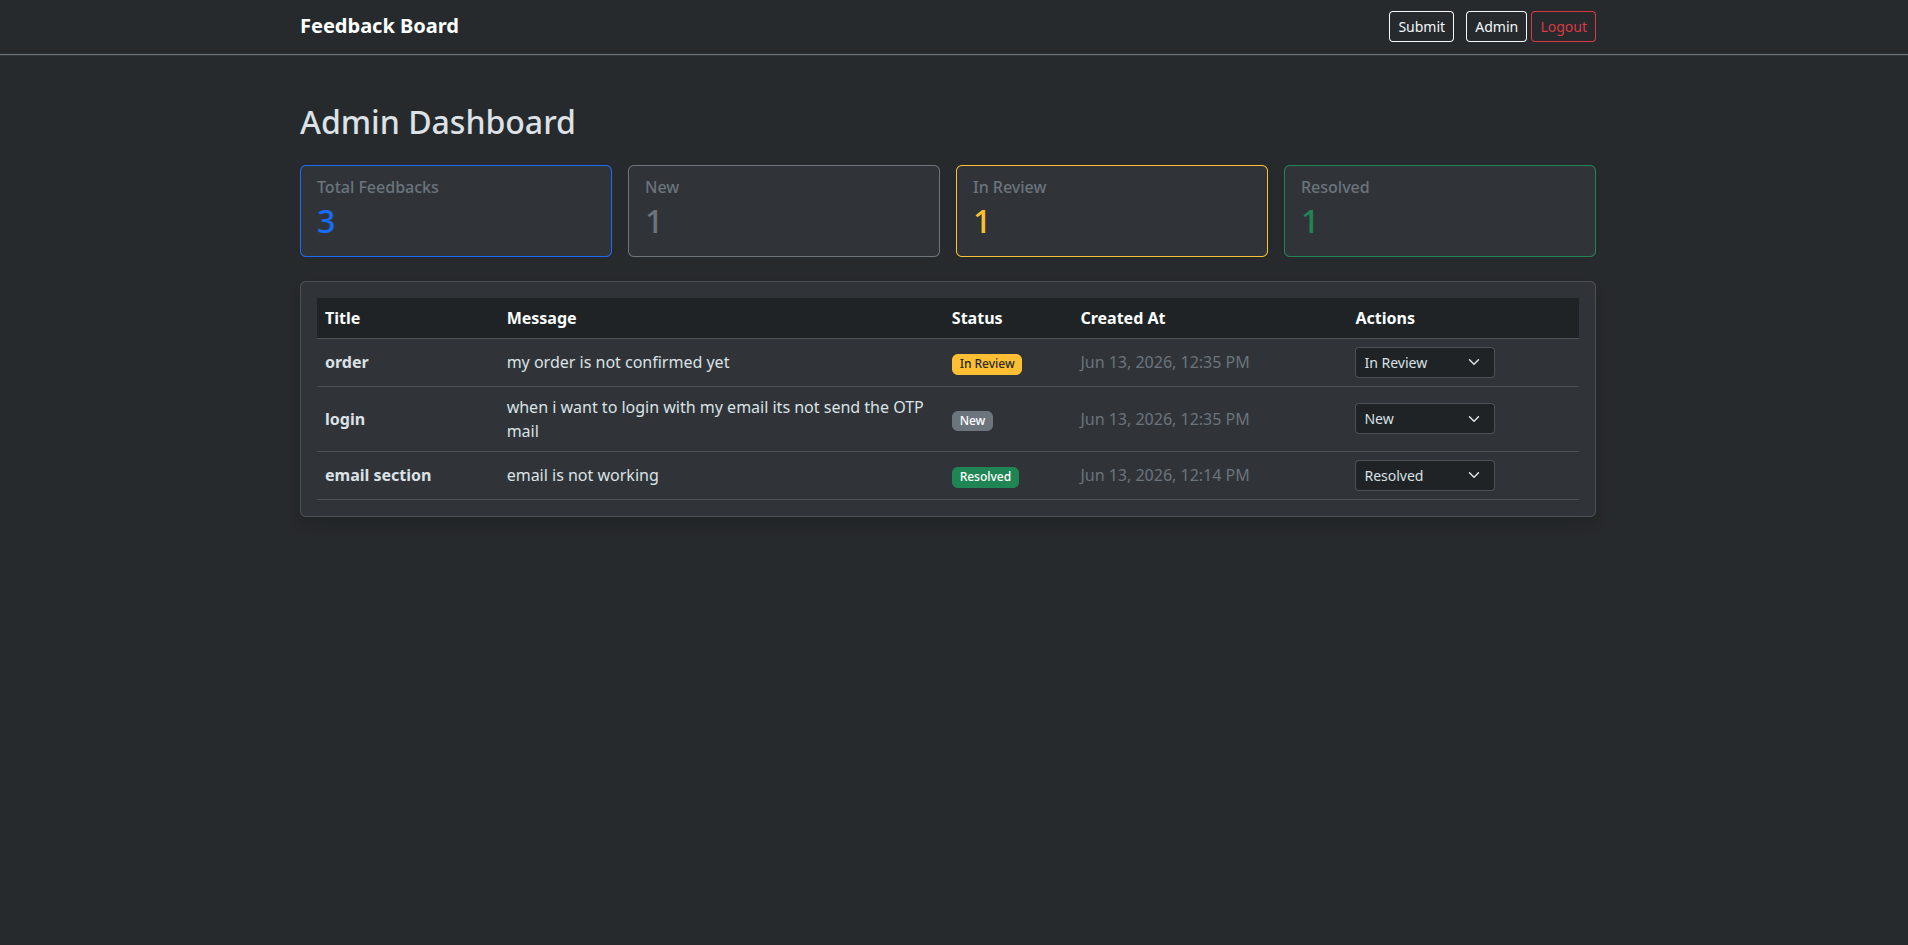
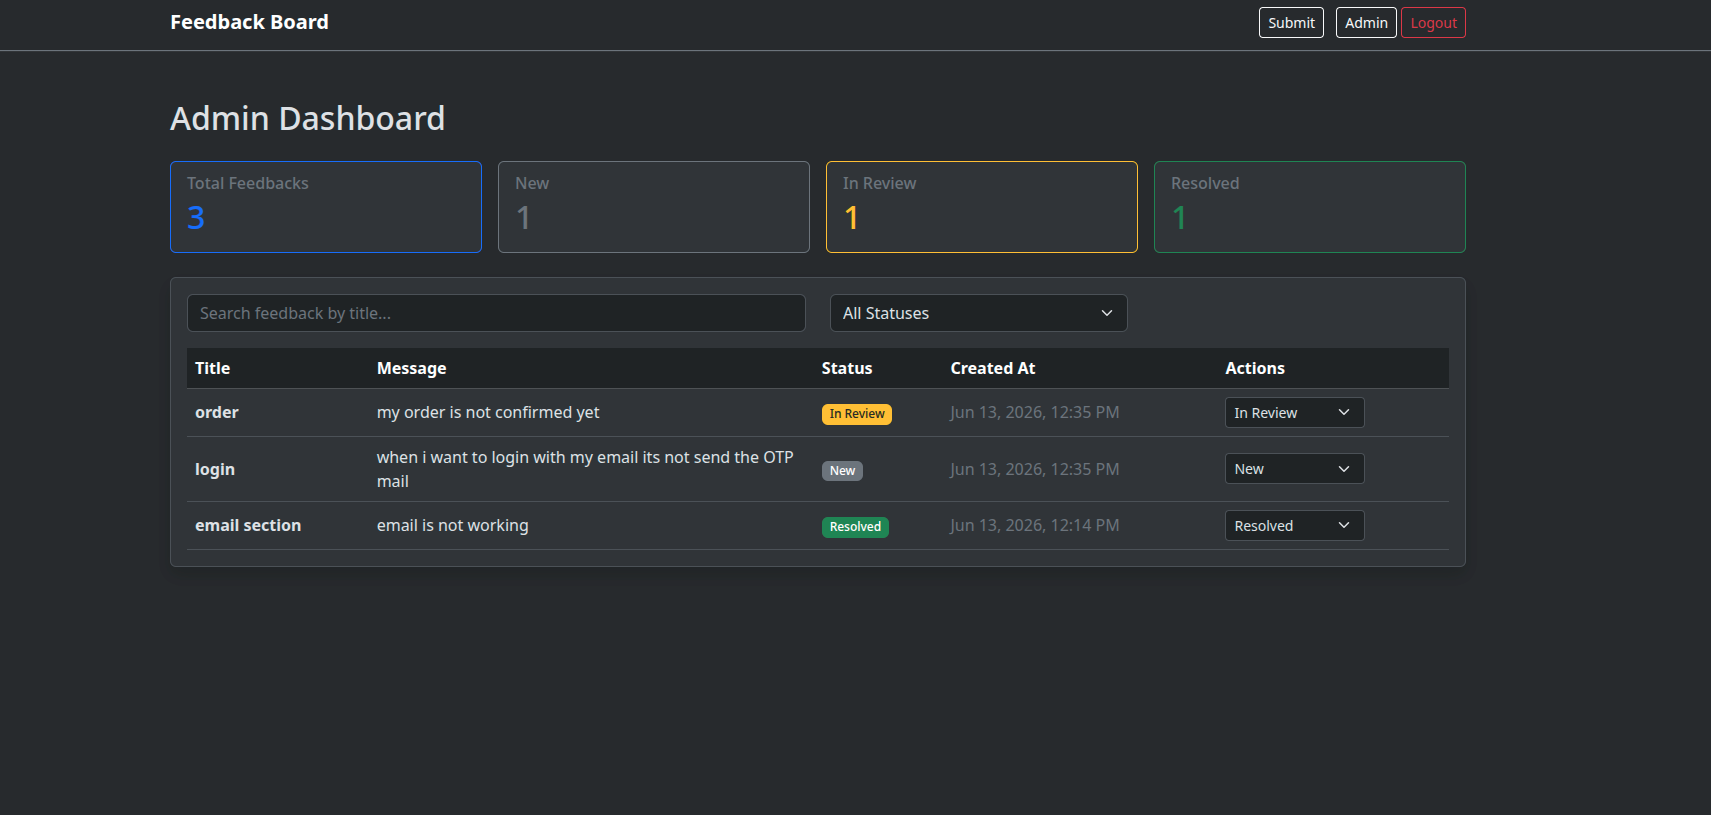
fix: update redme file and related image

diff --git a/README.md b/README.md
@@ -6,6 +6,8 @@ A full-stack feedback management application built with NestJS and MongoDB. User
 
 - **Submit Feedback** — Public form with client-side validation to submit feedback (title + message)
 - **Admin Dashboard** — Protected dashboard with summary cards and a data table to manage feedbacks
+- **Search** — Filter feedbacks by title with real-time search (300ms debounce)
+- **Status Filter** — Filter feedbacks by status (NEW / IN_REVIEW / RESOLVED)
 - **Status Management** — Triage feedbacks through three states: NEW → IN_REVIEW → RESOLVED
 - **Session Authentication** — Simple username/password login to protect the admin area
 - **Dark Theme UI** — Clean Bootstrap 5 dark mode interface
@@ -173,6 +175,21 @@ Create a new feedback.
 
 List all feedbacks sorted by newest first.
 
+**Query Parameters:**
+
+| Param | Type | Description |
+|-------|------|-------------|
+| `search` | `string` (optional) | Case-insensitive title search via MongoDB regex |
+| `status` | `string` (optional) | Filter by status: `NEW`, `IN_REVIEW`, or `RESOLVED` |
+
+**Examples:**
+
+```
+GET /api/feedbacks?search=login
+GET /api/feedbacks?status=NEW
+GET /api/feedbacks?search=login&status=IN_REVIEW
+```
+
 **Response:** `200 OK`
 
 ```json
@@ -241,6 +258,8 @@ Update the status of a feedback.
 - **Session auth over JWT** — Simpler for a single-admin dashboard; no token management needed. Sessions are stored in memory (no Redis requirement)
 - **Express session (memory store)** — Suitable for a take-home assignment scope. In production, swap to a database-backed store (connect-mongo)
 - **Vanilla JS** — No frontend framework dependency; keeps the bundle small and the code approachable for reviewers
+- **Debounced search** — Client-side 300ms debounce on the search input avoids excessive API calls while typing
+- **Combined filters** — Search and status filter compose together in a single API request, keeping the backend simple
 - **Bootstrap 5 dark theme** — Provides a polished, responsive UI with zero custom CSS for layout; `data-bs-theme="dark"` gives a professional look
 - **Confirmation modal** — Prevents accidental status changes; better UX than an immediate PATCH on dropdown change
 - **Loading skeleton** — Improves perceived performance compared to a blank table while data is fetched